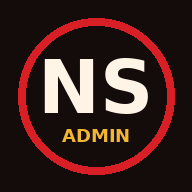
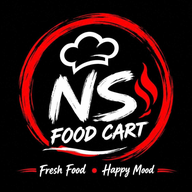
Add files via upload

diff --git a/index.html b/index.html
@@ -3,10 +3,24 @@
 <head>
 <meta charset="utf-8">
 <meta name="viewport" content="width=device-width, initial-scale=1, viewport-fit=cover">
-<title>NS Food Cart — অনলাইনে অর্ডার করুন</title>
-<meta name="description" content="NS Food Cart, পারখিদিরপুর বাজার, আটঘরিয়া, পাবনা। তেহারি, নাস্তা, ফ্রাই ও জুস অনলাইনে অর্ডার করুন, অর্ডার নম্বর দিয়ে ট্র্যাক করুন।">
+<title>NS Food Cart | গরম গরম তেহারি, নাস্তা ও জুস, অনলাইনে অর্ডার করুন</title>
+<meta name="description" content="বিফ তেহারি, চিকেন ফ্রাই, ফ্রেঞ্চ ফ্রাই আর ঠান্ডা জুস, দাম শুরু মাত্র ১০ টাকা থেকে। মোবাইল থেকেই অর্ডার দিন, আটঘরিয়ায় হোম ডেলিভারি নিন, টাকা দিন খাবার হাতে পেয়ে।">
+<meta property="og:type" content="website">
+<meta property="og:site_name" content="NS Food Cart">
+<meta property="og:locale" content="bn_BD">
+<meta property="og:title" content="NS Food Cart | গরম গরম তেহারি, নাস্তা ও জুস, অনলাইনে অর্ডার করুন">
+<meta property="og:description" content="বিফ তেহারি, চিকেন ফ্রাই, ফ্রেঞ্চ ফ্রাই আর ঠান্ডা জুস, দাম শুরু মাত্র ১০ টাকা থেকে। মোবাইল থেকেই অর্ডার দিন, আটঘরিয়ায় হোম ডেলিভারি নিন, টাকা দিন খাবার হাতে পেয়ে।">
+<meta property="og:image" content="icons/share.jpg">
+<meta property="og:image:width" content="1200">
+<meta property="og:image:height" content="630">
+<meta property="og:image:alt" content="NS Food Cart — Fresh Food, Happy Mood">
+<meta name="twitter:card" content="summary_large_image">
+<meta name="twitter:title" content="NS Food Cart | গরম গরম তেহারি, নাস্তা ও জুস, অনলাইনে অর্ডার করুন">
+<meta name="twitter:description" content="বিফ তেহারি, চিকেন ফ্রাই, ফ্রেঞ্চ ফ্রাই আর ঠান্ডা জুস, দাম শুরু মাত্র ১০ টাকা থেকে। মোবাইল থেকেই অর্ডার দিন, আটঘরিয়ায় হোম ডেলিভারি নিন, টাকা দিন খাবার হাতে পেয়ে।">
+<meta name="twitter:image" content="icons/share.jpg">
 <meta name="theme-color" content="#140b0b">
 <link rel="icon" href="icons/icon-192.png">
+<link rel="apple-touch-icon" href="icons/icon-192.png">
 <link rel="preconnect" href="https://fonts.googleapis.com">
 <link rel="preconnect" href="https://fonts.gstatic.com" crossorigin>
 <link href="https://fonts.googleapis.com/css2?family=Hind+Siliguri:wght@400;500;600;700&display=swap" rel="stylesheet">
@@ -38,7 +52,7 @@ button{cursor:pointer}
 header.top{position:sticky;top:0;z-index:30;background:rgba(20,11,11,.92);backdrop-filter:blur(8px);border-bottom:1px solid var(--line)}
 .top .wrap{display:flex;align-items:center;gap:12px;height:66px}
 .brand{display:flex;align-items:center;gap:11px;text-decoration:none;margin-right:auto;min-width:0}
-.mark{width:46px;height:46px;border-radius:50%;border:3px solid var(--red);display:grid;place-items:center;font:700 19px/1 var(--display);font-style:italic;flex:none;overflow:hidden;background:#000;
+.mark{width:50px;height:50px;border-radius:50%;border:0;display:grid;place-items:center;font:700 19px/1 var(--display);font-style:italic;flex:none;overflow:hidden;background:#000;
   box-shadow:0 0 18px rgba(216,31,38,.55)}
 .mark img{width:100%;height:100%;object-fit:cover}
 .brand b{font:700 20px/1.1 var(--display);display:block;white-space:nowrap}
@@ -310,7 +324,7 @@ label.l{display:block;font-size:15px;font-weight:500;margin:14px 0 5px}
 <header class="top">
   <div class="wrap">
     <a class="brand" href="#top">
-      <span class="mark" id="mark">NS</span>
+      <span class="mark" id="mark"><img src="icons/logo-mark.jpg" alt=""></span>
       <span><b id="sName">NS Food Cart</b><small id="sTag">Fresh Food • Happy Mood</small></span>
     </a>
     <a class="btn ghost track-link" href="#track">অর্ডার ট্র্যাক করুন</a>
@@ -359,7 +373,7 @@ label.l{display:block;font-size:15px;font-weight:500;margin:14px 0 5px}
 <footer>
   <div class="wrap">
     <div class="fgrid">
-      <div><h3 id="fName">NS Food Cart</h3><p id="fAbout"></p></div>
+      <div><img id="fLogo" src="icons/logo.jpg" alt="NS Food Cart লোগো" width="96" height="96" style="border-radius:16px;display:block;margin-bottom:12px"><h3 id="fName">NS Food Cart</h3><p id="fAbout"></p></div>
       <div><h3>ঠিকানা ও সময়</h3><p id="fAddr"></p><p id="fHours"></p><p id="fDeliv"></p></div>
       <div><h3>যোগাযোগ</h3><p><a id="fPhone" href="#"></a></p><p><a id="fWa" href="#" target="_blank" rel="noopener">হোয়াটসঅ্যাপে মেসেজ দিন</a></p><p><a id="fFb" href="#" target="_blank" rel="noopener">ফেসবুক পেজ</a></p></div>
     </div>
@@ -410,10 +424,10 @@ function tel(p){return 'tel:'+String(p||'').replace(/[^\d+]/g,'')}
 
 function shell(){
   document.documentElement.style.setProperty('--red',S.accent||'#d81f26');
-  document.title=S.name+' — অনলাইনে অর্ডার করুন';
+  
   ['#sName','#fName','#cName'].forEach(function(i){$(i).textContent=S.name});
   $('#sTag').textContent=S.tagline;
-  $('#mark').innerHTML=S.logo?'<img src="'+esc(S.logo)+'" alt="">':esc((S.name||'NS').trim().split(/\s+/)[0].slice(0,2).toUpperCase());
+  $('#mark').innerHTML='<img src="'+esc(S.logo||'icons/logo-mark.jpg')+'" alt="">';$('#fLogo').src=S.logo||'icons/logo.jpg';void esc((S.name||'NS').trim().split(/\s+/)[0].slice(0,2).toUpperCase());
   var a=$('#announce');a.textContent=S.announcement||'';a.classList.toggle('hidden',!S.announcement);
   $('#heroTitle').textContent=S.heroTitle;$('#heroText').textContent=S.heroText;
   $('#openDot').classList.toggle('off',!S.shopOpen);$('#statusPill').classList.toggle('closed',!S.shopOpen);

diff --git a/admin.html b/admin.html
@@ -8,6 +8,8 @@
 <meta name="theme-color" content="#140b0b">
 <link rel="manifest" href="manifest.webmanifest">
 <link rel="icon" href="icons/icon-192.png">
+<meta property="og:title" content="NS Food Cart Admin">
+<meta property="og:image" content="icons/share.jpg">
 <link rel="apple-touch-icon" href="icons/icon-192.png">
 <meta name="apple-mobile-web-app-capable" content="yes">
 <meta name="mobile-web-app-capable" content="yes">
@@ -42,7 +44,8 @@ label.l{display:block;font-weight:500;font-size:15px;margin:13px 0 4px}
 .login{min-height:100dvh;display:grid;place-items:center;padding:20px;background:var(--coal);
   background-image:radial-gradient(40rem 24rem at 100% 0,rgba(216,31,38,.35),transparent 60%)}
 .lbox{background:#fff;border-radius:18px;padding:28px 24px;width:min(400px,100%)}
-.lmark{width:68px;height:68px;border-radius:50%;background:#000;border:4px solid var(--red);color:#fff;display:grid;place-items:center;font:800 26px var(--display);font-style:italic;margin-bottom:14px}
+.lmark{width:96px;height:96px;border-radius:50%;background:#000;object-fit:cover;display:block;margin-bottom:14px}
+.blogo{width:44px;height:44px;border-radius:50%;object-fit:cover;flex:none;background:#000}
 .lbox h1{font-size:26px}
 .lbox p{color:var(--muted);margin:4px 0 8px}
 .err{color:#b3261e;font-size:15px;margin-top:10px}
@@ -202,7 +205,7 @@ input[type=file]{max-width:100%;min-width:0;font-size:15px}
 <!-- লগইন -->
 <div class="login" id="login">
   <form class="lbox" id="lForm">
-    <div class="lmark">NS</div>
+    <img class="lmark" id="lLogo" src="icons/logo-mark.jpg" alt="NS Food Cart">
     <h1>অ্যাডমিন লগইন</h1>
     <p>অর্ডার, মেনু আর দোকানের তথ্য এখান থেকে চালান।</p>
     <label class="l" for="lEmail">ইমেইল</label>
@@ -219,6 +222,7 @@ input[type=file]{max-width:100%;min-width:0;font-size:15px}
 <!-- অ্যাপ -->
 <div class="hidden" id="app">
   <div class="bar">
+    <img class="blogo" id="bLogo" src="icons/logo-mark.jpg" alt="">
     <h1>NS Admin<small id="who"></small></h1>
     <label class="switch" title="অর্ডার নেওয়া চালু/বন্ধ"><input type="checkbox" id="openSw"><span id="openLbl">অর্ডার চালু</span></label>
     <button class="btn hidden" id="installBtn">ইনস্টল</button>
@@ -381,7 +385,7 @@ Store.onAuth(function(u){
 function start(){
   if(started)return;started=true;
   if(Store.ensureSeed)Store.ensureSeed().then(function(did){if(did)toast('মেনুর ১৬টি আইটেম Firebase-এ সেভ হয়েছে। এখন এডিট করতে পারেন।')},fail);
-  Store.watchSettings(function(s){S=s;fillSettings();$('#openSw').checked=!!S.shopOpen;$('#openLbl').textContent=S.shopOpen?'অর্ডার চালু':'অর্ডার বন্ধ'});
+  Store.watchSettings(function(s){S=s;$('#bLogo').src=$('#lLogo').src=S.logo||'icons/logo-mark.jpg';fillSettings();$('#openSw').checked=!!S.shopOpen;$('#openLbl').textContent=S.shopOpen?'অর্ডার চালু':'অর্ডার বন্ধ'});
   Store.watchCategories(function(c){cats=c;drawCats();drawProds()});
   Store.watchProducts(function(p){prods=p;drawProds();drawRevs()});
   Store.watchReviews(function(r){revs=r;drawRevs()});

diff --git a/sw.js b/sw.js
@@ -1,6 +1,6 @@
 // NS Food Cart Admin — service worker (network first, cache fallback)
-const CACHE = 'nsfc-admin-v8';
-const SHELL = ['admin.html', 'js/store.js', 'js/firebase-config.js', 'manifest.webmanifest', 'icons/icon-192.png', 'icons/icon-512.png'];
+const CACHE = 'nsfc-admin-v9';
+const SHELL = ['admin.html', 'js/store.js', 'js/firebase-config.js', 'manifest.webmanifest', 'icons/icon-192.png', 'icons/icon-512.png', 'icons/logo-mark.jpg'];
 self.addEventListener('install', e => {
   e.waitUntil(caches.open(CACHE).then(c => c.addAll(SHELL)).then(() => self.skipWaiting()));
 });
